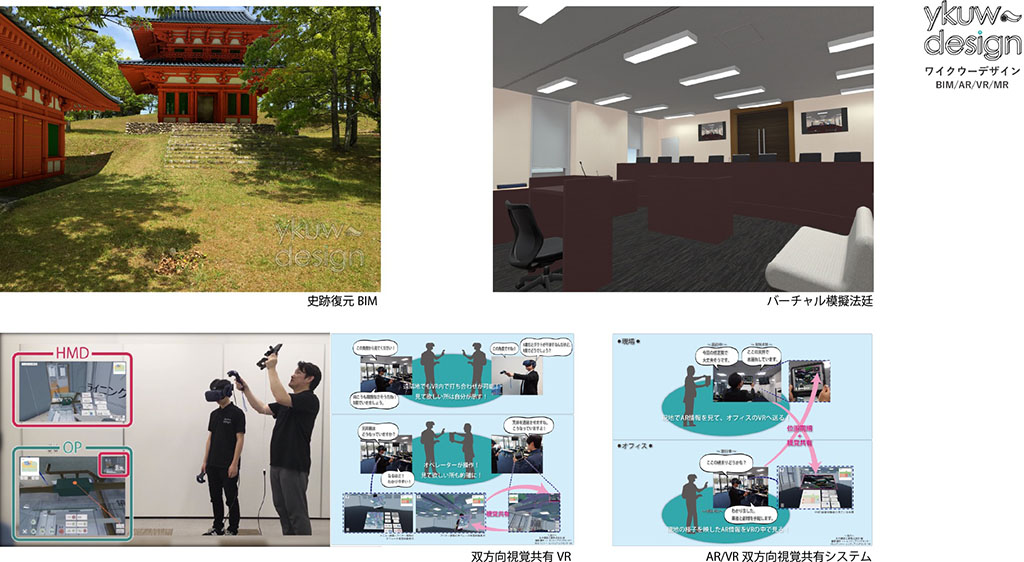
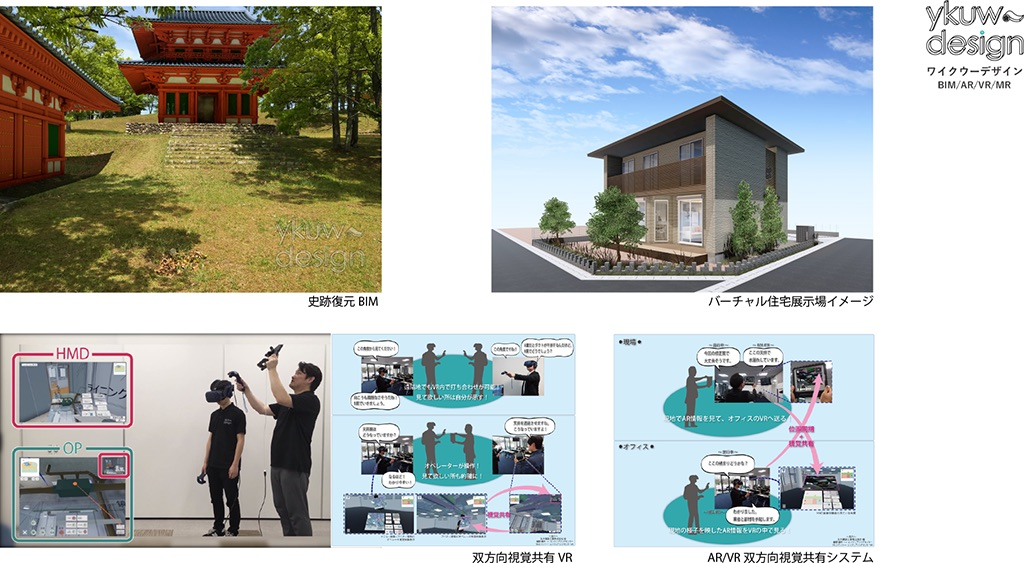
Updated expo detail

diff --git a/2020/expo/index.html b/2020/expo/index.html
@@ -176,8 +176,8 @@
                 <p>
                   アビームコンサルティングのXR専門チームの企業様向けXR相談・ソリューションご紹介ブースです。  バーチャル空間で、アビームコンサルティングのXR活用サービスのご紹介や、活用事例のご紹介、及び企業様におけるXR活用に係るご相談を実施しております。ご相談内容は、協業またはワークショップからソリューションの本導入まで幅広く承っております。是非お気軽にお立ち寄りください。
                 </p>
-                <div class="youtube">
-                  <iframe width="560" height="315" src="https://www.youtube.com/embed/xxx" frameborder="0" allow="accelerometer; autoplay; encrypted-media; gyroscope; picture-in-picture" allowfullscreen></iframe>
+                <div>
+                  <img data-src="../assets/img/expo/ABeam.jpg" uk-img>
                 </div>
                 <p class="uk-margin-remove-bottom">URL: <a href="https://www.abeam.com/jp/ja" target="_blank">https://www.abeam.com/jp/ja</a></p>
               </div>
@@ -231,7 +231,7 @@
                   BIM・xRコンテンツ
                 </p>
                 <p>
-                  ワイクウーデザインでは2016年よりBIM入力とBIMモデルを活用したxRコンテンツの提供をしてまいりました。ビルなど一般的な建物のBIMだけでなく、瓦工事業で培った知識から伝統建築BIMをはじめ史跡復元BIM等の提供をしております。ｘRコンテンツでは、好評の双方向史跡共有VRやAR/VR双方向視覚共有システム、HoloLens 2を使ったシミュレーションコンテンツなど様々なご要望にお応えしております。そしてxR Tech Nagoyaと共同で開発しているバーチャル模擬法廷の展示を致します。
+                  ワイクウーデザインでは2016年よりBIM入力とBIMモデルを活用したxRコンテンツの提供をしてまいりました。ビルなど一般的な建物のBIMだけでなく、瓦工事業で培った知識から伝統建築BIMをはじめ史跡復元BIM等の提供をしております。ｘRコンテンツでは、好評の双方向史跡共有VRやAR/VR双方向視覚共有システム、HoloLens 2を使ったシミュレーションコンテンツなど様々なご要望にお応えしております。そしてxR Tech Nagoyaと共同で開発しているバーチャル住宅展示場等の展示を致します。
                 </p>
                 <div>
                   <img data-src="../assets/img/expo/ykuw-design.jpg" uk-img>
